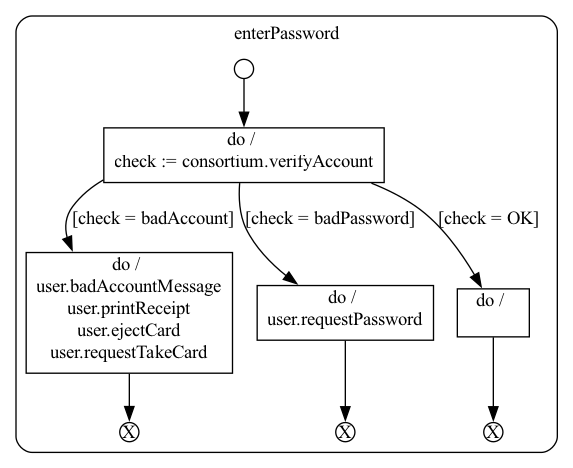
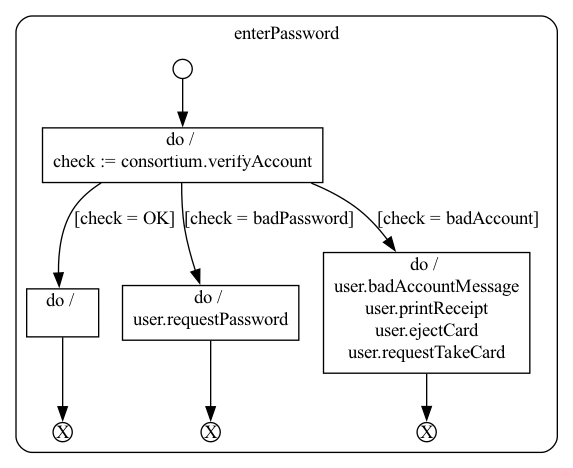
composite states order transitions

Changed region(s): [[0.0297, 0.1197, 0.9494, 0.9573], [0.8307, 0.8675, 0.8901, 0.9573], [0.445, 0.5085, 0.4747, 0.5684]]

diff --git a/visualizer_statemachine.py b/visualizer_statemachine.py
@@ -59,9 +59,10 @@ def visualize_state_machine(state_machines: Dict[str, StateMachine], path):
             to_state = transition.to_transition
             arrowhead = "normal" if from_state in state_machine.states else "onormal"
             arrowtail = "dot" if from_state  in state_machine.actions else ""
+            dir = "both"  if from_state  in state_machine.actions else ""
             label = f"{transition.message_in}" + "/" + f"{transition.return_v}"
 
-            graph.add_edge(pydot.Edge(from_state, to_state, label = label, arrowhead = arrowhead, arrowtail = arrowtail))
+            graph.add_edge(pydot.Edge(from_state, to_state, label = label, arrowhead = arrowhead, arrowtail = arrowtail, dir = dir))
 
         # Save the graph as a jpg file
         graph.write_jpg(jpg_filename)

diff --git a/io_automaton_to_composite.py b/io_automaton_to_composite.py
@@ -5,7 +5,9 @@ def get_composite_states(automat) -> list[CompositeState]:
     composite_states = []
     
     message_in_map = {}
-    for transition in automat.transitions:
+    iotransitions_sorted = (automat.transitions.copy())
+    iotransitions_sorted.sort(key=lambda x: x.to_transition)
+    for transition in iotransitions_sorted:
         if transition.message_in not in message_in_map:
             message_in_map[transition.message_in] = []
         message_in_map[transition.message_in].append(transition)
